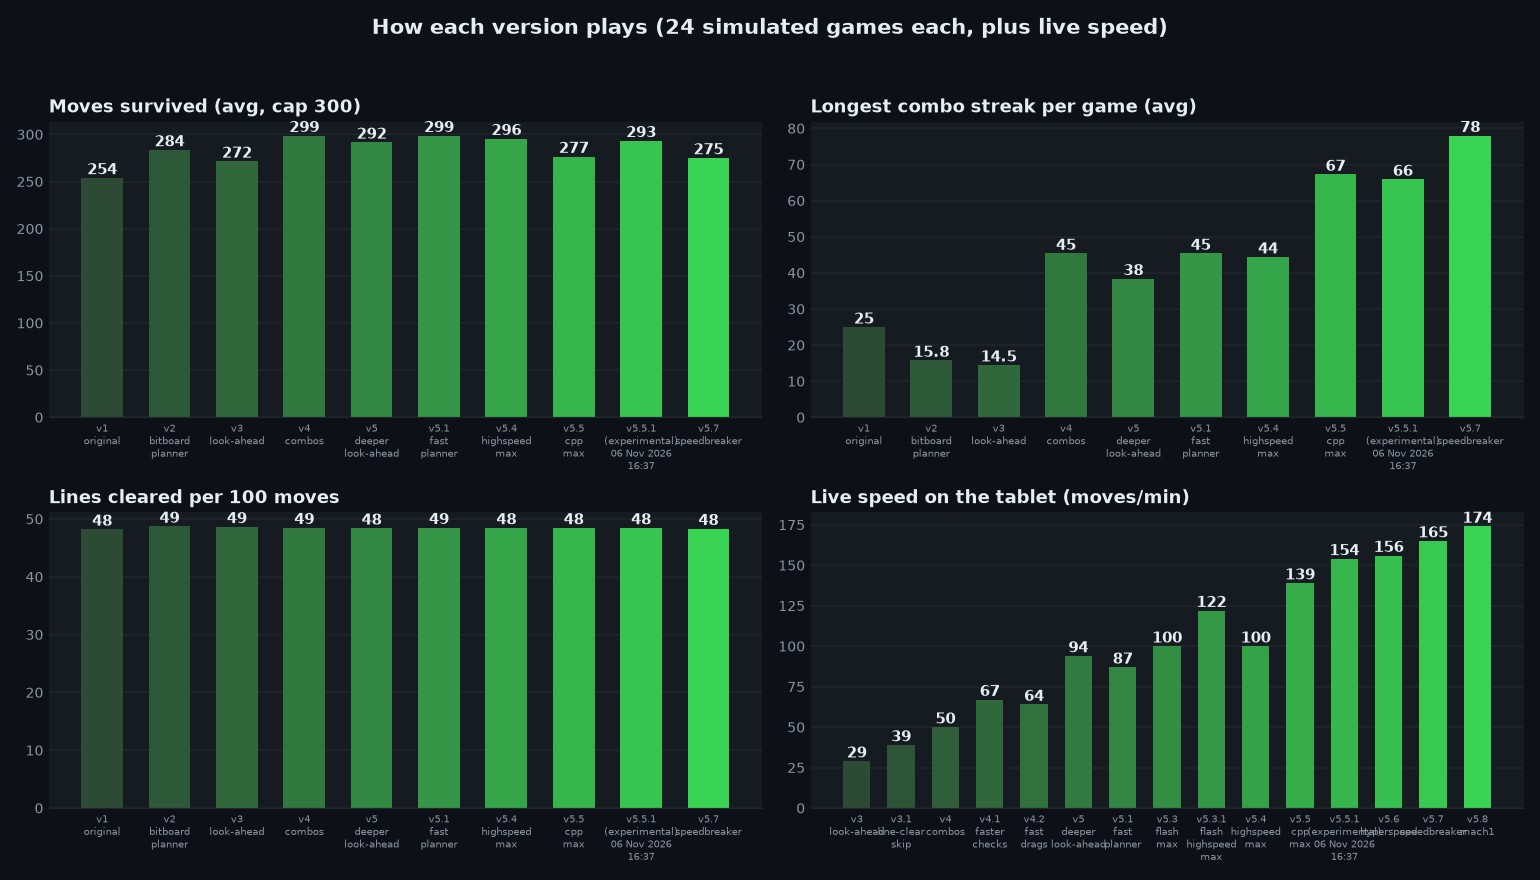
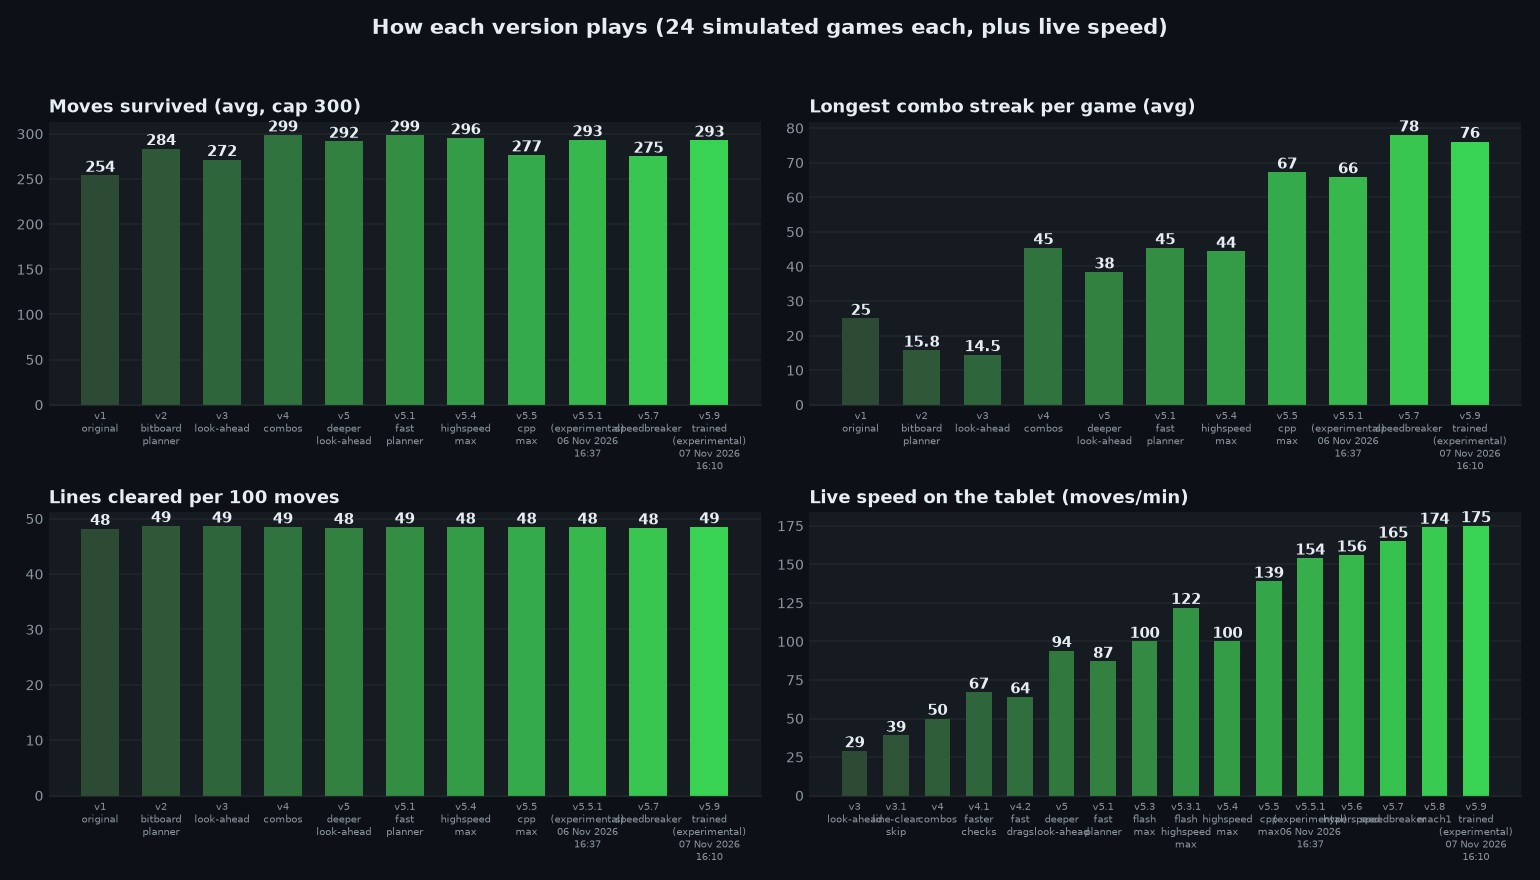
Benchmark and README: add v5.9 trained (experimental)

diff --git a/bench.py b/bench.py
@@ -36,10 +36,14 @@ VERSIONS = [
     ('v5.5 cpp max', 'e2f0115', 'cpp'),
     ('v5.5.1 (experimental)', '2847186', 'cpp'),
     ('v5.7 speedbreaker', '82bbd9d', 'cpp'),
+    ('v5.9 trained (experimental)', '70c481b', 'cpp'),
 ]
 # Where each C++ version's planner source lives in its commit.
 CPP_SRC = {'v5.5 cpp max': 'versions/v5.5-cpp-max/src', 'v5.5.1 (experimental)': 'versions/v5.5.1-exp/src',
-            'v5.7 speedbreaker': 'versions/v5.7-speedbreaker/src'}
+            'v5.7 speedbreaker': 'versions/v5.7-speedbreaker/src',
+            'v5.9 trained (experimental)': 'versions/v5.9-trained-exp/src'}
+# Extra source files a C++ version's planner needs (v5.9: the trained value network).
+CPP_EXTRA = {'v5.9 trained (experimental)': ['value.hpp', 'value.cpp', 'value_weights.inc']}
 # Measured on the tablet (moves/min from bot.log over 100+ moves). None = not measured.
 LIVE_SPEED = {'v1 original': None, 'v2 bitboard planner': None, 'v3 look-ahead': 29,
               'v3.1 line-clear skip': 39, 'v4 combos': 50,
@@ -50,7 +54,8 @@ LIVE_SPEED = {'v1 original': None, 'v2 bitboard planner': None, 'v3 look-ahead':
               'v5.4 highspeed max': 100, 'v5.5 cpp max': 139, 'v5.5.1 (experimental)': 154,
               'v5.6 hyperspeed': 156,  # same planner as v5.5.1: speed only
               'v5.7 speedbreaker': 165,  # released with the safe tray check (211 with the riskier one)
-              'v5.8 mach1': 174}  # same planner as v5.7: speed only
+              'v5.8 mach1': 174,  # same planner as v5.7: speed only
+              'v5.9 trained (experimental)': 175}  # 174.7 over 889 moves; trained network plans
 
 WINDOW = current.COMBO_WINDOW
 
@@ -65,7 +70,7 @@ def cpp_dll(label, commit):
     # Committed sources never change; the working tree is built once per run by the main
     # process (BB_DLL_READY), and the worker processes reuse it.
     if os.path.exists(out) and (commit or os.environ.get('BB_DLL_READY')): return out
-    files = ['planner.hpp', 'planner.cpp', 'capi.cpp']
+    files = ['planner.hpp', 'planner.cpp', 'capi.cpp'] + CPP_EXTRA.get(label, [])
     tmp = tempfile.mkdtemp(prefix='bbplan_')
     for f in files:
         data = (open(os.path.join(src, f), 'rb').read() if commit is None else
@@ -77,7 +82,8 @@ def cpp_dll(label, commit):
         found = glob.glob(os.path.join(os.environ.get('LOCALAPPDATA', ''), 'Microsoft', 'WinGet', 'Packages', '*', 'mingw64', 'bin', 'g++.exe'))
         if found: gpp = found[0]
     subprocess.run([gpp, '-O2', '-mpopcnt', '-std=c++20', '-static', '-shared', '-o', out,
-                    os.path.join(tmp, 'capi.cpp'), os.path.join(tmp, 'planner.cpp')], check=True)
+                    os.path.join(tmp, 'capi.cpp'), os.path.join(tmp, 'planner.cpp')]
+                   + [os.path.join(tmp, f) for f in CPP_EXTRA.get(label, []) if f.endswith('.cpp')], check=True)
     return out
 
 

diff --git a/README.md b/README.md
@@ -31,6 +31,7 @@ Every planner version plays the same simulated games (`python bench.py`); live s
 | v5.6 hyperspeed | v5.5.1's survival planner with a faster play loop (released by the user; the experimental label dropped on release). Drags no longer slow down for the rest of the run after one miss (v5.5.1 had drifted to 0.21 s drags, ~120 moves/min, after an hour); 70 ms drags, 30 ms between drags; a tray's first drops go straight after each other and the last drop's check verifies the whole board; a stuck touch is released automatically. **156 moves/min** over 757 live moves, 1 board correction. The user's target for it was 170; it was released at 156 by the user's decision. A game with v5.5.1/v5.6 reached a new best score of 2,976,894 (previous best 809,192). |
 | v5.7 speedbreaker | Released (`versions/v5.7-speedbreaker/`). **Faster loop:** after a tray's last drop it checks the board at once and then watches only the tray (small frames that arrive much faster) until the new pieces are certain, instead of a blind wait; a missed drop (piece still in the tray) is spotted in ~0.1 s; 45 ms drags with 15 ms between them; a piece the game is still holding is released at once; full-screen ads inside the game are recognised (and closed when they allow it); the all-clear celebration on an emptied board no longer looks like a full board; game-over, menu and unknown screens are re-checked every 0.3–1 s instead of 3–10 s. A new tray is accepted only when three frames in a row agree (a faster two-frame version ran at **211 moves/min** but once misread a growing tray as three 3x3s and lost a game). **165 moves/min** live over Wi-Fi with that safe check (v5.6: 156); USB frames come faster. **Smarter:** board-scoring weights tuned in the simulator (smooth edges and no holes count more, raw empty space less): on 64 fresh games up to 3,000 moves it survived 2,090 moves on average vs 1,788 with v5.6's weights, 28 vs 23 games lasting all 3,000 moves. On short games it is level (96 games capped at 300: 89 vs 90 reach the cap; the chart's 24 games show 20 vs 23, within noise). Longest combo streak on the chart: 78, the best of any version. The user's target was 200 moves/min; released at 165 by the user's decision. |
 | v5.8 mach1 | Released (`versions/v5.8-mach1/`), same planner as v5.7; all about speed over Wi-Fi. A tray's drags go to the tablet in one command (40 ms apart, the gap the game needs between a drop and the next drag; shorter gaps made pieces bounce back); a new tray is accepted when two frames agree but never earlier than 0.5 s after the last drop (half-grown pieces once fooled a faster check); the result screen and menu are acted on at once (no 3 s pause before a new game). Board-picture drift fixed (also in v5.7): each new tray's board is checked against the screen, lines expected to clear are re-checked after 1.6 s, and 4+ unexpected blocks trigger a careful re-read (1–3 are combo text). **174 moves/min** over 834 live moves over Wi-Fi (v5.7: 165), 0 board drift, 2 missed drops in 5 minutes. The user's target was 210 moves/min; over Wi-Fi a tray can't go much below ~1.0 s (the game deals a tray ~0.6 s after the last drop, and drags need 40 ms gaps), so it was released at 174 by the user's decision. |
+| v5.9 trained (experimental) | Experimental (`versions/v5.9-trained-exp/`), not released. **Machine learning:** a small neural network (C++, compiled into the bot) judges each candidate move instead of playing 64–96 sampled future trays. It was trained by self-play in the simulator to predict what v5.8's slow look-ahead concludes about a board ("distillation", 4.1M examples), then one more round on boards it reached by itself (6.1M in total). On 256 fresh simulated games up to 3,000 moves it survives 2,166 moves on average vs v5.8's 2,190 (a tie within noise) while planning **3.6 ms per tray instead of ~44 ms** (12x less). Live it plays at **175 moves/min** over 889 moves over Wi-Fi (v5.8: 174): planning was never what limits speed (the deal animation and Wi-Fi are). Tools: `datagen.exe` (self-play data), `train.exe` (trainer). |
 
 ## How it works
 

diff --git a/next-checkpoint.md b/next-checkpoint.md
@@ -36,6 +36,9 @@ built or tested. Queued checkpoints are done **in version order, lowest number f
     v5.8 2190 (125 capped), at 3.6 vs ~44 ms/tray: 99% of v5.8's survival, a tie within noise
     (set seed 70000: 2197 vs 2114; set seed 90000: 2135 vs 2265). Hybrid (look-ahead on its best 8)
     was not better. This network (fnet3) is now compiled into the bot.
+  - **Training stopped here by the user (2026-11-07).** Benchmark updated (`bench.py`: v5.9 trained
+    (experimental), commit 70c481b, live 175). Testing done; it stays experimental until the user
+    releases it (or parks it).
 
 ## Done
 
